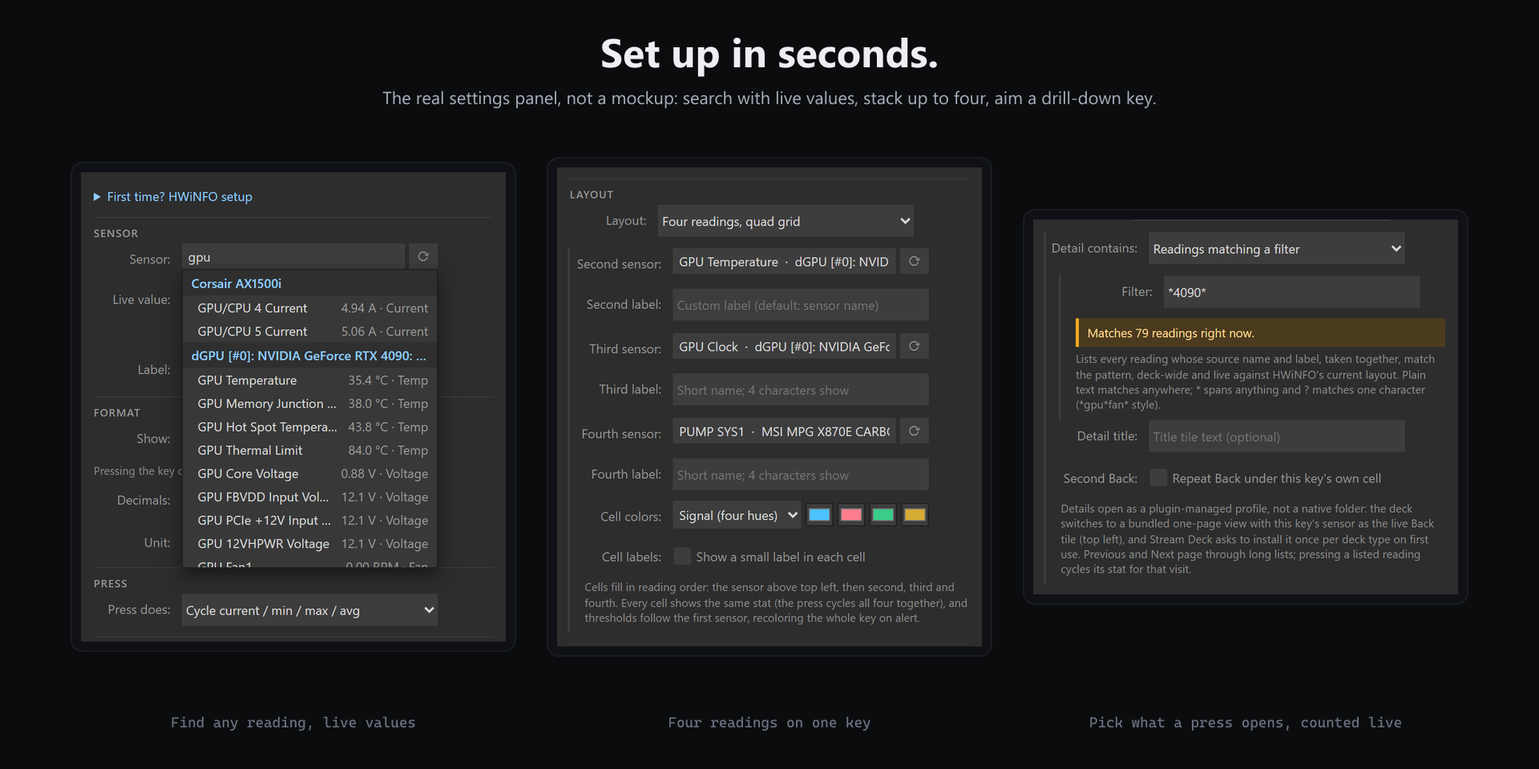
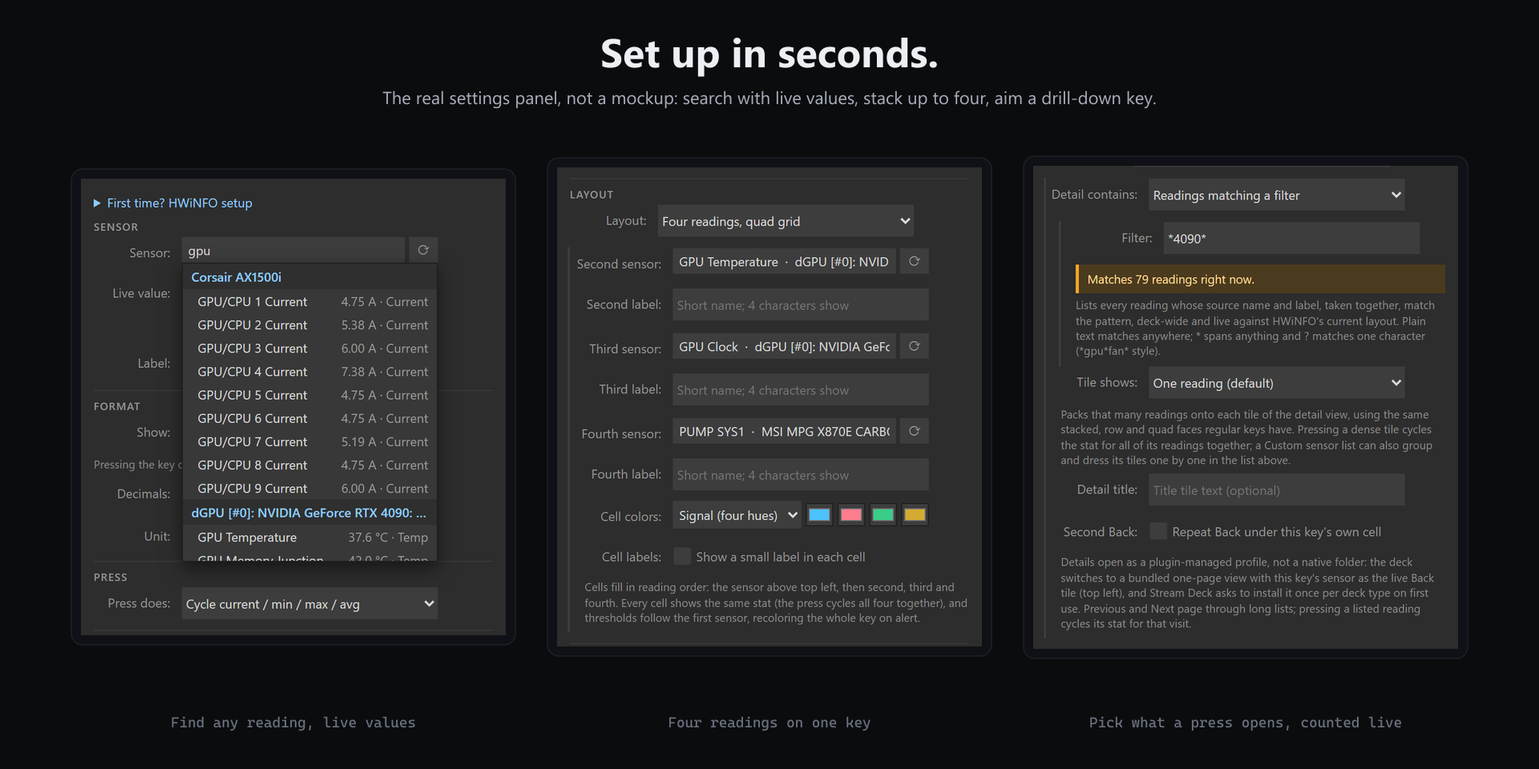
docs: every Gadget setup route names the master switch, and the panel images show the 1.6.0 fold
The setup routes in the README, FAQ, troubleshooting and getting-started
pages tick Enable reporting to Gadget before Report value in Gadget, the
way installation and data sources already did. The FAQ, key page,
getting-started and data-sources pages say that a key picked on the
Gadget source is identified by source name and label, since the
registry carries no ids. The README status table and alt text gain the
HWiNFO busy face the image already shows.

The Advanced-fold images for the key and dial panels showed three
groups while their captions described the Config wells; both are
recaptured through the PI harness at the panel's real width with the
Config section in frame, the full settings panel and the sensor picker
are refreshed from the same run, the detail-page captions say which
Back state each image shows, and Marketplace shot 4 is rebuilt from the
current filter panel with its Tile shows select. NOTICE.md credits ws,
which the SDK bundles into bin/plugin.js.

PERF.md carries the final candidate pack and the measured red-first
counts. scripts/docs-crawl.mjs walks a published docs site for broken
links, images, anchors and private paths; scripts/docs-site-shots.mjs
captures every page at a desktop and a phone width with a manifest.

diff --git a/docs/sensor-reading.md b/docs/sensor-reading.md
@@ -9,7 +9,7 @@ One face, one hierarchy: the value carries the light, the label identifies, and 
 
 This page documents every setting in the key's settings panel. For the Stream Deck + dial, see [Sensor Dial](sensor-dial.md).
 
-![The full Sensor Reading settings panel in the Stream Deck property inspector, its rows grouped under flat Sensor, Format, Press, Appearance, Layout and Alerts headers: the sensor picker with a live value and the label field, the stat, decimals and unit rows, the Press does select, the theme gallery with the Text select under it, the layout and Display selects, the threshold controls, and the expanded Advanced section headed Deck defaults (deck theme, Deck text, type accents, data units), Connection (data source, poll rate) and Support (the Copy support report button).]({{ '/assets/img/settings-panel.png' | relative_url }})
+![The full Sensor Reading settings panel in the Stream Deck property inspector, its rows grouped under flat Sensor, Format, Press, Appearance, Layout and Alerts headers: the sensor picker with a live value and the label field, the stat, decimals and unit rows, the Press does select, the theme gallery with the Text select under it, the layout and Display selects, the threshold controls, and the expanded Advanced section headed Deck defaults (deck theme, Deck text, type accents, data units), Connection (data source, poll rate), Support (the Copy support report button) and Config (the This key and Deck JSON wells with their Copy and Apply buttons).]({{ '/assets/img/settings-panel.png' | relative_url }})
 
 ## Settings
 
@@ -17,7 +17,7 @@ This page documents every setting in the key's settings panel. For the Stream De
 
 A searchable picker over every reading HWiNFO publishes (typically 500+), grouped by source (CPU, GPU, drives, network, and so on). Type in the **Search sensors…** box to filter; each row shows a live value so you can confirm you have the right one. The **⟳** button reloads the list if HWiNFO's sensor set changed.
 
-The selected sensor is stored as HWiNFO's stable `sensor-id : instance : reading-id` identity, not a list position, so keys survive HWiNFO restarts and sensor reordering. If that identity later disappears from HWiNFO's output (a hardware, driver, or sensor-profile change), the key shows **Sensor missing / pick again**: reopen settings and pick it again.
+The selected sensor is stored as HWiNFO's stable `sensor-id : instance : reading-id` identity (on the Gadget registry, which carries no ids, as the source name and reading label HWiNFO writes), not a list position, so keys survive HWiNFO restarts and sensor reordering. If that identity later disappears from HWiNFO's output (a hardware, driver, or sensor-profile change, or a rename in HWiNFO while on the Gadget source), the key shows **Sensor missing / pick again**: reopen settings and pick it again.
 
 > **Note:** With the picker open, pressing Enter with no search text typed does **not** change your selection (fixed in 1.1.5.0). Your saved sensor is left untouched.
 
@@ -224,7 +224,7 @@ The settings panel shows the matching plain-language explanation and fix while t
 
 The **Advanced** section in this panel holds plugin-wide settings shared by every key and dial, in four headed groups: **Deck defaults (every key and dial)** with **Deck theme**, **Deck text**, **Type accents** and **Data units**; **Connection** with **Data source** and **Poll every**; **Support**; and **Config**. Themes and Deck text are documented under [Themes](themes.md), the sources under [Data sources](data-sources.md).
 
-![The expanded Advanced section in the Stream Deck app: the Deck defaults header over Deck theme, Deck text, Type accents and Data units rows, then Connection with Data source and Poll every, and Support with the Copy support report button, then Config with the This key and Deck JSON wells and their Copy and Apply buttons.]({{ '/assets/img/pi-live-key-advanced.png' | relative_url }})
+![The expanded Advanced section of the settings panel at its real width: the Deck defaults header over Deck theme, Deck text, Type accents and Data units rows, then Connection with Data source and Poll every, Support with the Copy support report button, and Config with the This key and Deck JSON wells, each with its Copy and Apply buttons, over the help line that explains them.]({{ '/assets/img/pi-live-key-advanced.png' | relative_url }})
 
 **Config** holds two JSON wells: **This key**, the exact settings this key runs on, and **Deck**, the plugin-wide settings. **Copy** fills an untouched well with the settings of the moment you press it and puts the document on the clipboard; save it to a file to back a hand-built layout up. Paste a saved document and press **Apply** to restore it, or to clone it onto another key here or on another machine. Apply replaces the whole document in one write and reloads the panel; fields this build does not know survive untouched. Reading keys in the document carry the sensor's friendly name after the key so the file stays readable; Apply strips the names, and settings always store bare keys. The wells live on the Sensor Reading and Sensor Dial panels only; the HWiNFO Control key holds just a command, a target and a reset scope, so I left it without wells and re-enter those by hand.
 

diff --git a/docs/sensor-details.md b/docs/sensor-details.md
@@ -32,13 +32,13 @@ In the key's settings panel, under **Press**:
 
 ![The Press section of the settings panel: Press does set to Open sensor details, Detail contains on All readings from this sensor source, Tile shows on One reading (default), an empty Detail title field, and the Second Back checkbox ticked, reading Repeat Back under this key's own cell.]({{ '/assets/img/detail-press-panel.png' | relative_url }})
 
-![The Custom sensor list editor in the settings panel at its real width: three tiles built by hand, a two-cell tile holding GPU/CPU 1 Current and Temperature1, a four-cell tile with its Abc label toggle and a color well beside each of its four chips, and a one-cell tile holding PSU +3.3V, each tile with a grip, a size control and move arrows, a dashed plus for a new tile, and the note reading 7 readings across 3 tiles.]({{ '/assets/img/detail-custom-tiles-panel.png' | relative_url }})
+![The Custom sensor list editor in the settings panel at its real width: the Add sensor search field, then three tiles built by hand, a two-cell tile holding GPU/CPU 1 Current and Temperature1, a four-cell tile with its Abc label toggle and a color well beside each of its four chips, and a one-cell tile holding PSU +3.3V, each tile with a grip and a size control, each chip with move arrows and a remove cross, a plus inside a tile with room and a dashed plus for a new tile, and the note reading 7 readings across 3 tiles.]({{ '/assets/img/detail-custom-tiles-panel.png' | relative_url }})
 
 Existing keys are untouched: a key without a Press setting behaves exactly as it always has.
 
 ## The detail page
 
-![A 15-key detail page rendered by the plugin from live HWiNFO data: the CPU temperature opener as the top-left Back tile with a small return arrow in its lower-left corner, a title tile reading CPU number 0 AMD Ryzen 9 9950X over the range 1-11 of 71, a dimmed Previous chevron, a bright Next chevron, and eleven live CPU temperature tiles, one of them badged MAX.]({{ '/assets/img/detail-view.png' | relative_url }})
+![A 15-key detail page rendered by the plugin from live HWiNFO data, with Repeat Back under this key's own cell unticked by hand so the page holds one Back only: the CPU temperature opener as the top-left Back tile with a small return arrow in its lower-left corner, a title tile reading CPU number 0 AMD Ryzen 9 9950X over the range 1-11 of 71, a dimmed Previous chevron, a bright Next chevron, and eleven live CPU temperature tiles, one of them badged MAX.]({{ '/assets/img/detail-view.png' | relative_url }})
 
 Every detail page has the same furniture:
 
@@ -49,7 +49,7 @@ Every detail page has the same furniture:
 - **Reading tiles**: live readings, themed like the opener. At the default one reading per tile, each tile carries the type accent of its own reading; a denser tile (**Tile shows**) carries its first reading's accent, the same rule the regular stacked, row and quad layouts follow for their first sensor. Pressing a tile cycles current / min / max / avg for everything on it, for this visit; leaving the view resets those. Reading tiles deliberately do not inherit the opener's thresholds: an 80 °C warn level means nothing on a wattage or clock tile. The Back tile keeps its own.
 - **No sparklines on reading tiles, by design.** A sparkline needs a history buffer that fills over a minute or more, and a detail page shows dozens of arbitrary readings (up to 128 on a + XL at four per tile) that change with every page turn and every filter, so the lines would draw mostly empty while costing buffer churn on every visit. The tiles stay instant and scannable; your opener key keeps its own sparkline back on your page.
 
-![The same 15-key detail page with the second Back enabled: the CPU temperature opener appears twice with the return arrow in its corner, once on the top-left Back tile and once on the center cell where the key sits, the title range reads 1-10 of 71 instead of 1-11, and the readings flow around the second tile.]({{ '/assets/img/detail-second-back.png' | relative_url }})
+![The same 15-key detail page at the default, with the second Back on: the CPU temperature opener appears twice with the return arrow in its corner, once on the top-left Back tile and once on the center cell where the key sits, the title range reads 1-10 of 71 instead of 1-11, and the readings flow around the second tile.]({{ '/assets/img/detail-second-back.png' | relative_url }})
 
 With **Tile shows** at four readings per tile the same page carries 40 readings: ten quad tiles around the two Back tiles, each cell with a short label, the title counting readings rather than tiles, and one tile showing the MAX badge after a press.
 

diff --git a/PERF.md b/PERF.md
@@ -29,16 +29,19 @@ zero orphan processes after the full suite.
 
 ### 2026-09-04: 1.6.0.0 release candidate, and what the Gadget fix costs
 
-`node scripts/perf-report.mjs` against the release candidate pack
-(`fa305293…`, 284,822 B; gzip 274,714 B): the 2026-08-30 density cut
-plus the issue #21 Gadget scan fix (#22), the Configure Sensors
-guidance (#23), the corrected README and first-run tip, and the
-1.6.0.0-2 panel cache tokens. bin/plugin.js is 185,561 B (the scan fix
-is 47 B of bundle), ui/ is 243,963 B, and `hwsm.node` builds from the
-same native source as 1.5.0.0 and 1.5.1.0 (`git diff v1.5.1..HEAD --
-native/` is empty; the CI-built addon is the one that ships). The
-shared-memory parse path is unchanged: 8.4 µs mean / 10.5 µs p95 over
-548 live readings (1,000 iterations, 255.8 KB region).
+`node scripts/perf-report.mjs` against the final release candidate pack
+(`0f894cd2…`, 285,205 B; gzip 275,094 B, measured 2026-09-05 03:06Z):
+the 2026-08-30 density cut plus the issue #21 Gadget scan fix (#22),
+the Configure Sensors guidance (#23), the corrected README and
+first-run tip, the 1.6.0.0-3 panel cache tokens, and the custom-list
+key parser that keeps a Gadget key whole (found by the release gap
+audit; see the soak paragraph below). bin/plugin.js is 185,666 B, ui/ is
+244,582 B, and `hwsm.node` builds from the same native source as
+1.5.0.0 and 1.5.1.0 (`git diff v1.5.1..HEAD -- native/` is empty; the
+CI-built addon is the one that ships). The shared-memory parse path is
+unchanged: 8.5 µs mean / 8.7 µs p95 over 548 live readings (1,000
+iterations, 255.8 KB region). The afternoon cut of the same day
+(`fa305293…`, 284,822 B) measured 8.4 / 10.5 µs on the same path.
 
 The Gadget path is the one that changed, and it is dearer by design.
 The old scan stopped at the first missing `SensorN`; the fix walks the
@@ -52,7 +55,9 @@ run against both scans measures:
 | 1.5.1.0 scan (stops at the first hole) | 121.8 | 116.6 | 143.3 | 11,137 B |
 | 1.6.0.0 scan (whole 1,024-slot bound) | 2,736.5 | 2,694.1 | 2,998.3 | 42,370 B |
 
-About 2.6 ms of that is the 1,011 registry queries that answer
+Re-measured on the final pack: 2,565.3 µs mean / 2,555.1 p50 / 2,630.2
+p95, 42,377 B per tick, the same shape inside run-to-run noise. About
+2.6 ms of that is the 1,011 registry queries that answer
 ERROR_FILE_NOT_FOUND, so the cost is set by the bound, not by how many
 readings are ticked: at the default 1 s poll it is about 0.3% of one
 core, at the fastest 250 ms poll about 1.1%, and the shared-memory
@@ -64,11 +69,17 @@ for it.
 The soak this release rests on is the 2026-09-02 entry below: 48 h on
 the 2026-08-30 pack (`54913122…`), whose runtime differs from this
 candidate by the Gadget provider's scan loop (src/hwinfo/gadget-
-registry.ts), a poller comment, and two user-facing strings. The
+registry.ts), the custom-list key parser (src/detail/detail-settings.ts:
+a Gadget key is "g:<source>:<label>" and carries spaces, and the parser
+cut it at the first one, a defect introduced on the density branch and
+never released), a poller comment, and three user-facing strings. The
 shared-memory poller, the renderers and the native bytes the soak
-exercised are the same source; the changed Gadget path is covered by
-the 24-case provider suite, the Gadget e2e (21 checks, 8 of them new,
-all failing against the old scan) and a bench install of this pack.
+exercised are the same source; the changed paths are covered by the
+24-case provider suite, the Gadget e2e (27 checks; 10 of the original
+21 fail against the v1.5.1 scan, and 3 of the 6 custom-list checks fail
+against the first-space parser, both proven in isolated worktrees
+before the fixes), the PI e2e's Gadget run (8 checks, 6 of them failing
+against the old panel parser) and a bench install of this pack.
 `perf-report` could not attribute the live plugin process from this
 shell (the Stream Deck app's child processes answer the WMI command-line
 query with an empty string here), so the process row is not refreshed;

diff --git a/docs/troubleshooting.md b/docs/troubleshooting.md
@@ -36,7 +36,7 @@ When a key can't show live data it renders a two-line, true-black status screen 
 The plugin found HWiNFO on **neither** interface. In order of likelihood:
 
 1. **HWiNFO isn't running.** Start it. If you use the free version, run it in **Sensors-only** mode.
-2. **HWiNFO is running but publishing on neither interface.** Open **HWiNFO → Settings** and tick **Shared Memory Support**. On the free version you can instead open **Configure Sensors → HWiNFO Gadget** and tick **"Report value in Gadget"** (no 12-hour limit); see [Data sources](data-sources.md).
+2. **HWiNFO is running but publishing on neither interface.** Open **HWiNFO → Settings** and tick **Shared Memory Support**. On the free version you can instead open **Configure Sensors → HWiNFO Gadget**, tick **"Enable reporting to Gadget"** and then **"Report value in Gadget"** on the readings you want (no 12-hour limit); see [Data sources](data-sources.md).
 3. **Portable HWiNFO window was closed.** The portable build only publishes while its window is open, and nothing auto-starts it. Reopen it (and add it to autostart yourself if you want it always on).
 4. **Wrong bitness.** This plugin reads 64-bit HWiNFO. Use `HWiNFO64`, not the 32-bit build, on 64-bit Windows.
 5. **HWiNFO just launched.** It can take a few seconds after start to create the shared-memory mapping. Wait, then the key recovers on its own; the plugin re-probes every tick.
@@ -48,7 +48,7 @@ HWiNFO's shared-memory mapping exists but its header is flagged **disabled** (in
 
 1. **Shared Memory Support was turned off** in HWiNFO Settings. Re-enable it.
 2. **Free version's 12-hour timer expired.** The free build auto-disables shared memory 12 hours after start and leaves the dead mapping behind. Toggle **Shared Memory Support** off and on to restart the timer, or restart HWiNFO. HWiNFO **Pro** removes the limit entirely.
-3. **You don't want to keep toggling it.** Enable **Gadget reporting** instead (tick "Report value in Gadget" on the sensors you need). In the default **Auto** data source the plugin falls back to the Gadget registry by itself when shared memory dies, and upgrades back automatically when it returns.
+3. **You don't want to keep toggling it.** Enable **Gadget reporting** instead (**Configure Sensors → HWiNFO Gadget**: tick "Enable reporting to Gadget", then "Report value in Gadget" on the sensors you need). In the default **Auto** data source the plugin falls back to the Gadget registry by itself when shared memory dies, and upgrades back automatically when it returns.
 
 > **Note:** If your **Data source** (Advanced) is set to **Shared Memory only**, the plugin will *not* fall back. Set it to **Auto** to get automatic Gadget fallback.
 

diff --git a/README.md b/README.md
@@ -68,7 +68,7 @@ advanced*):
 | Sensor coverage | everything HWiNFO measures | only sensors you tick in HWiNFO |
 | Min / max / average | ✅ | current value only |
 | Free version | auto-disables after **12 h** (Pro: unlimited) | ✅ no time limit |
-| Enable in HWiNFO | Settings → *Shared Memory Support* | *Configure Sensors* → *HWiNFO Gadget* tab → *Report value in Gadget* |
+| Enable in HWiNFO | Settings → *Shared Memory Support* | *Configure Sensors* → *HWiNFO Gadget* tab → tick *Enable reporting to Gadget*, then *Report value in Gadget* per reading |
 
 In **Auto** mode the plugin uses Shared Memory whenever it's available and
 silently falls back to the Gadget registry (e.g. after the free version's 12-hour
@@ -252,12 +252,13 @@ status screen that names the problem and its fix:
 
 <p align="center">
   <img src="docs/assets/img/status-screens.png" width="820"
-       alt="The plugin's status screens rendered as clean OLED-black key faces, each with a two-line message: Start HWiNFO, Shared Memory off, Access denied, Tick sensors in Gadget, Not updating, Pick a sensor, and Sensor missing">
+       alt="The plugin's status screens rendered as clean OLED-black key faces, each with a two-line message: Start HWiNFO, HWiNFO busy, Shared Memory off, Access denied, Tick sensors in Gadget, Not updating, Pick a sensor, and Sensor missing">
 </p>
 
 | Key shows | Meaning / fix |
 | --- | --- |
 | **Start HWiNFO** | HWiNFO isn't publishing on either interface. Start it with Shared Memory Support (or Gadget reporting) enabled. |
+| **HWiNFO busy** | HWiNFO is running, but another reader held its shared memory at the instant the plugin connected. Momentary; the plugin retries on the next poll. |
 | **Shared Memory off** | HWiNFO reports sharing disabled. This is also where the free version's **12-hour timer** lands: it switches sharing off (HWiNFO Pro removes the limit). Re-enable it in HWiNFO Settings, or enable Gadget reporting; Auto mode falls back to it by itself. |
 | **Tick sensors in Gadget** | Gadget reporting is on but nothing is ticked, so the registry is empty. In HWiNFO's sensor window click **Configure Sensors**, open the **HWiNFO Gadget** tab and tick **Report value in Gadget** for each value you want on the deck. |
 | **Not updating** | Values frozen: HWiNFO's Sensors window was closed or HWiNFO stopped polling. Reopen the Sensors window; if it keeps happening, restart HWiNFO. |

diff --git a/docs/getting-started.md b/docs/getting-started.md
@@ -17,7 +17,7 @@ In the actions list, open **HWiNFO Sensors** and drag **Sensor Reading** onto an
 
 The key immediately shows a blue **"Pick a sensor / in settings"** screen. That's the plugin working, waiting for you to choose what to display. The settings panel (the property inspector) opens below the canvas at the same time.
 
-> **First run?** The settings panel starts with a collapsible **"First time? HWiNFO setup"** tip that walks through the three HWiNFO steps: install and start HWiNFO in Sensors-only mode, enable **Shared Memory Support** (or, on the free version, open **Configure Sensors → HWiNFO Gadget** and tick **"Report value in Gadget"**; no 12-hour limit), then pick a sensor. Expand it if you haven't set HWiNFO up yet.
+> **First run?** The settings panel starts with a collapsible **"First time? HWiNFO setup"** tip that walks through the three HWiNFO steps: install and start HWiNFO in Sensors-only mode, enable **Shared Memory Support** (or, on the free version, open **Configure Sensors → HWiNFO Gadget**, tick **"Enable reporting to Gadget"** and then **"Report value in Gadget"** on the readings you want; no 12-hour limit), then pick a sensor. Expand it if you haven't set HWiNFO up yet.
 
 ## 3. Pick a sensor
 
@@ -32,7 +32,7 @@ Click the **Sensor** search box to open the picker. It lists every reading HWiNF
 
 Click a row to select it. The **Live value** line just under the picker previews the chosen reading (current value plus min / max / avg), and the key on your deck switches from the blue prompt to the live number straight away.
 
-That's the whole loop: drag, pick, done. The key now updates roughly once a second (see [Poll every](data-sources.md#poll-every) under Advanced settings to change the rate). Your choice is stored by HWiNFO's stable sensor identity, not by list position, so the key survives restarts and hardware reordering.
+That's the whole loop: drag, pick, done. The key now updates roughly once a second (see [Poll every](data-sources.md#poll-every) under Advanced settings to change the rate). Your choice is stored by HWiNFO's stable sensor identity (on the Gadget source, by the source name and reading label as HWiNFO writes them), not by list position, so the key survives restarts and hardware reordering.
 
 ## Where to go next
 

diff --git a/docs/faq.md b/docs/faq.md
@@ -62,7 +62,7 @@ Leave it on **Auto** (the default) unless you have a specific reason not to. Aut
 | Sensor coverage | everything HWiNFO measures (~500+) | only sensors you tick in HWiNFO |
 | Min / max / average | yes (from HWiNFO) | no (current value only) |
 | Free-version limit | disables after 12 h | none |
-| Enable in HWiNFO | Settings → Shared Memory Support | Configure Sensors → *HWiNFO Gadget* tab → *Report value in Gadget* |
+| Enable in HWiNFO | Settings → Shared Memory Support | Configure Sensors → *HWiNFO Gadget* tab → tick *Enable reporting to Gadget*, then *Report value in Gadget* per reading |
 
 Set it under **Advanced → Data source** in any key's settings, or under **Dial gestures & advanced → Data source** on a dial (`Auto`, `Shared Memory only`, `Gadget registry only`). It's a global setting: it applies to every key and dial.
 
@@ -192,7 +192,7 @@ Yes to both. The **free** version works (with the 12-hour Shared Memory caveat a
 
 ### Do keys survive reboots, HWiNFO restarts, or reordering sensors in HWiNFO?
 
-Yes. A key stores HWiNFO's **stable identity** for the reading (`sensor-id : instance : reading-id`), not a position in a list. So keys keep working across restarts and if you reorder sensors in HWiNFO. If a saved sensor genuinely disappears (hardware/driver change, or you renamed a sensor profile), the key shows `Sensor missing / pick again`: reopen its settings and pick it again.
+Yes. On Shared Memory a key stores HWiNFO's **stable identity** for the reading (`sensor-id : instance : reading-id`), not a position in a list; on the Gadget registry, which carries no ids, it stores the source name and reading label as HWiNFO writes them. So keys keep working across restarts and if you reorder sensors in HWiNFO. If a saved sensor genuinely disappears (hardware/driver change, a renamed sensor profile, or a source or reading renamed in HWiNFO while on the Gadget source), the key shows `Sensor missing / pick again`: reopen its settings and pick it again.
 
 ### Can I use Stream Deck + dials without HWiNFO Pro?
 

diff --git a/docs/sensor-dial.md b/docs/sensor-dial.md
@@ -160,4 +160,4 @@ Before you've picked a sensor, the dial shows **HWiNFO** / **rotate to pick** wi
 
 The dial's Property Inspector also exposes the same global settings as keys, under **Dial gestures & advanced**: **Deck theme**, **Deck text**, **Type accents**, **Data units**, **Data source**, and **Poll every**. These apply to the whole plugin rather than to this dial alone; they're documented in [Data sources](data-sources.md), [Themes](themes.md), and the key page's [Data units section](sensor-reading.md#advanced-deck-wide). The fold also carries the same **Config** wells as the key panel (this dial's settings and the deck-wide settings as canonical JSON, with Copy and Apply); they behave exactly as described in the key page's [Advanced section](sensor-reading.md#advanced-deck-wide).
 
-![The dial's expanded Dial gestures & advanced fold in the Stream Deck app: the Remote control header with the Link ID field, then Deck defaults (every key and dial) with Deck theme, Deck text, Type accents and Data units, Connection with Data source and Poll every, Support, and Config with the This dial and Deck JSON wells.]({{ '/assets/img/pi-live-dial-advanced.png' | relative_url }})
+![The deck-wide tail of the dial's Dial gestures & advanced fold at the panel's real width: the Remote control header with the Link ID field reading cpu-dial, then Deck defaults (every key and dial) with Deck theme, Deck text, Type accents and Data units, Connection with Data source and Poll every, Support with the Copy support report button, and Config with the This dial and Deck JSON wells, each with its Copy and Apply buttons.]({{ '/assets/img/pi-live-dial-advanced.png' | relative_url }})

diff --git a/docs/data-sources.md b/docs/data-sources.md
@@ -30,6 +30,8 @@ In HWiNFO's sensor window click **Configure Sensors**, open the **HWiNFO Gadget*
 
 HWiNFO gives every ticked reading a numbered slot and leaves that number reserved even while the reading itself is switched off, so the numbering can carry permanent gaps. The plugin reads across them (since 1.6.0; earlier versions stopped at the first gap, see [Troubleshooting](troubleshooting.md#only-some-of-the-readings-i-ticked-in-gadget-show-up)).
 
+The registry carries no sensor ids, so a key picked while on the Gadget source is identified by the source name and reading label as HWiNFO writes them. Renaming either in HWiNFO changes that identity and the key shows **Sensor missing / pick again** until you pick it again; reordering, restarts and the slot numbering do not affect it.
+
 ## Auto mode
 
 The **Data source** setting defaults to **Auto**, and it's what most setups should stay on. In Auto mode the plugin:

diff --git a/CHANGELOG.md b/CHANGELOG.md
@@ -64,9 +64,10 @@ Elgato Marketplace listing is a separate track.
   reading reaches keys, dials and the Sensor details view, and a
   missing slot is never mistaken for a fault. (Reported in issue #21.)
 - The Gadget setup guidance names where the tick actually lives: the
-  sensor window's Configure Sensors dialog, HWiNFO Gadget tab, not a
-  right-click menu. The status screens, the settings panel's first-run
-  tip and the docs all say so now.
+  sensor window's Configure Sensors dialog, HWiNFO Gadget tab, then the
+  Enable reporting to Gadget switch and Report value in Gadget on each
+  reading, not a right-click menu. The status screens, the settings
+  panel's first-run tip and the docs all say so now.
 
 ## 1.5.1.0 - 2026-08-11
 

diff --git a/docs/changelog.md b/docs/changelog.md
@@ -75,9 +75,10 @@ Elgato Marketplace listing is a separate track.
   reading reaches keys, dials and the Sensor details view, and a
   missing slot is never mistaken for a fault. (Reported in issue #21.)
 - The Gadget setup guidance names where the tick actually lives: the
-  sensor window's Configure Sensors dialog, HWiNFO Gadget tab, not a
-  right-click menu. The status screens, the settings panel's first-run
-  tip and the docs all say so now.
+  sensor window's Configure Sensors dialog, HWiNFO Gadget tab, then the
+  Enable reporting to Gadget switch and Report value in Gadget on each
+  reading, not a right-click menu. The status screens, the settings
+  panel's first-run tip and the docs all say so now.
 
 ## 1.5.1.0 - 2026-08-11
 

diff --git a/NOTICE.md b/NOTICE.md
@@ -19,3 +19,6 @@ This plugin is free software (MIT licensed) with **no ads and no telemetry**.
   vendored as `ui/sdpi-components.js` from the official distribution). The
   HWiNFO bridge (`bin/hwsm.node`) is this project's own N-API addon, built
   from `native/hwsm` and covered by the same MIT license.
+- **ws** (MIT, Einar Otto Stangvik and contributors,
+  <https://github.com/websockets/ws>), the SDK's WebSocket client to the
+  local Stream Deck app, bundled into `bin/plugin.js`.
